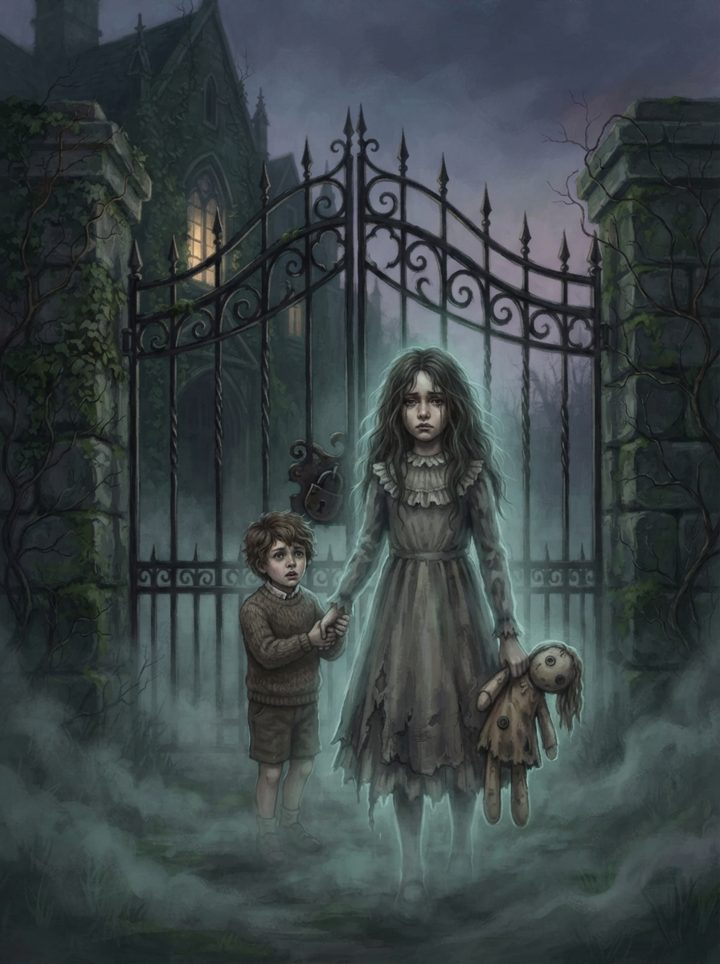
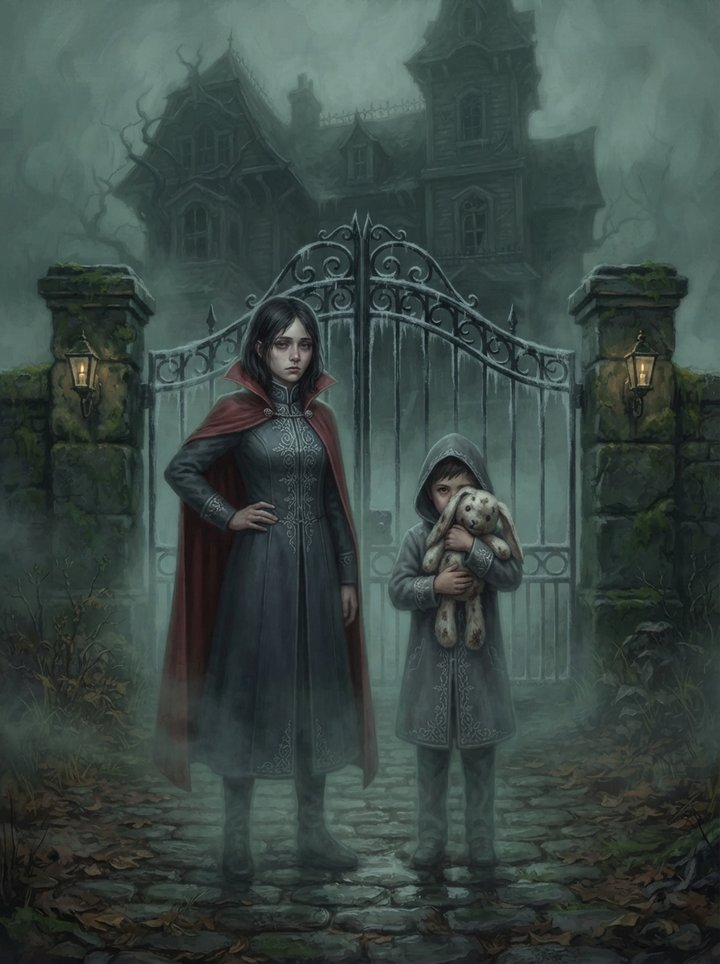
Replace the art Ryan shared with our own pictures
Ireena, the Keeper's Whistle and Rose and Thorn (Session Zero) now show
AI pictures painted with Ryan's art as inspiration only, so the site
carries no one else's artwork. The Session Zero picture is Durst Manor's
wiki picture too. A test keeps the old files and credits off the site.

Claude-Session: https://claude.ai/code/session_01U8i5qXXJ7jPksYczmEi9Yn

diff --git a/tests/test_posts.py b/tests/test_posts.py
@@ -72,3 +72,17 @@ def test_ai_pictures_carry_the_credit(path):
     text = path.read_text(encoding="utf-8")
     for m in re.finditer(r"!\[[^\]]*\]\(/images/[^)\s]*-ai[^)\s]*\)", text):
         assert text[m.end():m.end() + 200].lstrip().startswith("*AI-generated"), f"{path.name}: credit after {m.group(0)}"
+
+
+DM_ART = ("ireena-by-ryan.webp", "keepers-whistle-by-ryan.webp", "session-zero-1.jpeg")
+
+
+def test_no_page_shows_art_the_dm_shared():
+    """Chris, 2026-11-02: the pictures Ryan shared are other artists' work, used only as inspiration,
+    so the site shows our own pictures of Ireena, the Keeper's Whistle and Rose and Thorn instead."""
+    root = Path(build.__file__).parent
+    pages = [*POSTS, *sorted((root / "content" / "wiki").glob("*.md"))]
+    shown = [(p.name, name) for p in pages for name in DM_ART if name in p.read_text(encoding="utf-8")]
+    assert shown == []
+    assert [n for n in DM_ART if (root / "static" / "images" / n).exists()] == []
+    assert not [p.name for p in pages if "-by-ryan" in p.read_text(encoding="utf-8")]

diff --git a/content/posts/2023-11-28-entering-durst-manor.md b/content/posts/2023-11-28-entering-durst-manor.md
@@ -8,9 +8,9 @@ obsidian_portal_url: https://curseofstrahdowlbear.obsidianportal.com/adventure-l
 
 We spoke with the two children outside the [Manor](/wiki/durst-manor/). They are [Rose](/wiki/rose-durst/) and [Thorn](/wiki/thorn-durst/) Durst, and they live in the manor with their parents. They have not seen their nursemaid in a while, and they are afraid to go inside. Their parents, they said, are in the manor, on the third floor. The children will not leave the grounds, as if they are tied to the place somehow, and they will not enter either, for fear of the monster or monsters they believe live there. Thorn thinks he hears noises from below, though neither child believes there is a basement or cellar. Rose told us her parents' names are Gustav and Elisabeth.
 
-![Rose and Thorn Durst, two ghost children hand in hand at the manor gate](/images/rose-and-thorn-durst-ai.jpg)
+![Rose and Thorn Durst, two ghost children side by side at the manor gate, Thorn hugging a stuffed toy](/images/rose-and-thorn-durst-ai.jpg)
 
-*AI-generated image (Google Gemini, October 2026). Not official art.*
+*AI-generated image (Google Gemini, November 2026). Not official art.*
 
 We braved [Durst Manor](/wiki/durst-manor/). As soon as the last of us was inside, the main doors slammed shut, every light went out, and six loud chimes rang. When we lit torches, there was blood on a wall of the first floor, and not just blood: a message written in it:
 

diff --git a/content/posts/2024-03-26-leaving-village-barovia.md b/content/posts/2024-03-26-leaving-village-barovia.md
@@ -16,9 +16,9 @@ After the ritual a great swarm of bats flew from the church up to the west, perh
 
 Ismark asked us to escort [Ireena](/wiki/ireena-kolyana/) to the Abbey of Saint Markovia in Krezk, and that the Church of Saint Andral in Vallaki could be a sanctuary along the way. My notes also mention “Red har – bad luck” but I can no longer make sense of it.
 
-![Ireena, red-haired, in a breastplate and long dark skirt, with a sword in each hand](/images/ireena-by-ryan.webp)
+![Ireena, red-haired, in a breastplate and crimson scarf, a rapier in hand on a misty forest road](/images/ireena-kolyana-ai.jpg)
 
-*Ireena, in art shared with our table.*
+*AI-generated image (Google Gemini, November 2026). Not official art.*
 
 Ismark recommended stopping by the Tser Pool which is just a two hour journey west of here. We were to leave at noon, which gives us some time to shop or wander around.
 

diff --git a/content/posts/2023-11-07-session-zero.md b/content/posts/2023-11-07-session-zero.md
@@ -14,7 +14,9 @@ We did not know what to do, but we felt compelled to follow those relics as they
 
 After we could not say how long in the mists, we came upon a [four-story manor](/wiki/durst-manor/) with a balcony on the third floor. A boy and a girl stood near the front, as if waiting to greet us. The mists drew back, and when I looked behind us there was no path to show how we might return to Daggerford, had we wanted to.
 
-![IMG_1002.jpeg](/images/session-zero-1.jpeg)
+![A four-story manor looming out of the mist at dusk, a girl and a little boy waiting near the front](/images/durst-manor-ai.jpg)
+
+*AI-generated image (Google Gemini, November 2026). Not official art.*
 
 ## Key Locations:
 

diff --git a/content/wiki/rose-durst.md b/content/wiki/rose-durst.md
@@ -10,9 +10,9 @@ obsidian_portal_url: https://curseofstrahdowlbear.obsidianportal.com/wikis/rose-
 
 ## Description
 
-![Rose and Thorn Durst, two ghost children hand in hand at the manor gate](/images/rose-and-thorn-durst-ai.jpg)
+![Rose and Thorn Durst, two ghost children side by side at the manor gate, Thorn hugging a stuffed toy](/images/rose-and-thorn-durst-ai.jpg)
 
-*AI-generated image (Google Gemini, October 2026), drawn from this page and the session logs. Not official art.*
+*AI-generated image (Google Gemini, November 2026), drawn from this page and the session logs. Not official art.*
 
 <!-- from-the-log -->
 ## From the adventure log

diff --git a/content/wiki/thorn-durst.md b/content/wiki/thorn-durst.md
@@ -10,9 +10,9 @@ obsidian_portal_url: https://curseofstrahdowlbear.obsidianportal.com/wikis/thorn
 
 ## Description
 
-![Rose and Thorn Durst, two ghost children hand in hand at the manor gate](/images/rose-and-thorn-durst-ai.jpg)
+![Rose and Thorn Durst, two ghost children side by side at the manor gate, Thorn hugging a stuffed toy](/images/rose-and-thorn-durst-ai.jpg)
 
-*AI-generated image (Google Gemini, October 2026), drawn from this page and the session logs. Not official art.*
+*AI-generated image (Google Gemini, November 2026), drawn from this page and the session logs. Not official art.*
 
 <!-- from-the-log -->
 ## From the adventure log

diff --git a/content/wiki/obsidian-whistle.md b/content/wiki/obsidian-whistle.md
@@ -9,9 +9,9 @@ source: Compiled from the adventure log, with notes from the table
 
 ## Description
 
-![The Keeper's Whistle: a black raven's head on a short handle bound with cord](/images/keepers-whistle-by-ryan.webp)
+![The Keeper's Whistle: a black obsidian raven with an open beak, its mouthpiece bound with cord, on a candlelit table](/images/obsidian-whistle-ai.jpg)
 
-*The Keeper's Whistle, in art Ryan shared with the table.*
+*AI-generated image (Google Gemini, November 2026), drawn from this page and the session logs. Not official art.*
 
 *Written from the session logs, in Malron's words.*
 

diff --git a/content/wiki/ireena-kolyana.md b/content/wiki/ireena-kolyana.md
@@ -11,9 +11,9 @@ obsidian_portal_url: https://curseofstrahdowlbear.obsidianportal.com/wikis/ireen
 
 ## Description
 
-![Ireena, red-haired, in a breastplate and long dark skirt, with a sword in each hand](/images/ireena-by-ryan.webp)
+![Ireena, red-haired, in a breastplate and crimson scarf, a rapier in hand on a misty forest road](/images/ireena-kolyana-ai.jpg)
 
-*Ireena, in art Ryan shared with the table.*
+*AI-generated image (Google Gemini, November 2026), drawn from this page and the session logs. Not official art.*
 
 *Written from the session logs, in Malron's words.*
 

diff --git a/content/wiki/durst-manor.md b/content/wiki/durst-manor.md
@@ -10,6 +10,10 @@ obsidian_portal_url: https://curseofstrahdowlbear.obsidianportal.com/wikis/durst
 
 ## Description
 
+![Durst Manor, four stories with a third-floor balcony, looming out of the mist at dusk, a girl and a little boy waiting near the front](/images/durst-manor-ai.jpg)
+
+*AI-generated image (Google Gemini, November 2026), drawn from this page and the session logs. Not official art.*
+
 *Written from the session logs, in Malron's words.*
 
 ### What we found
